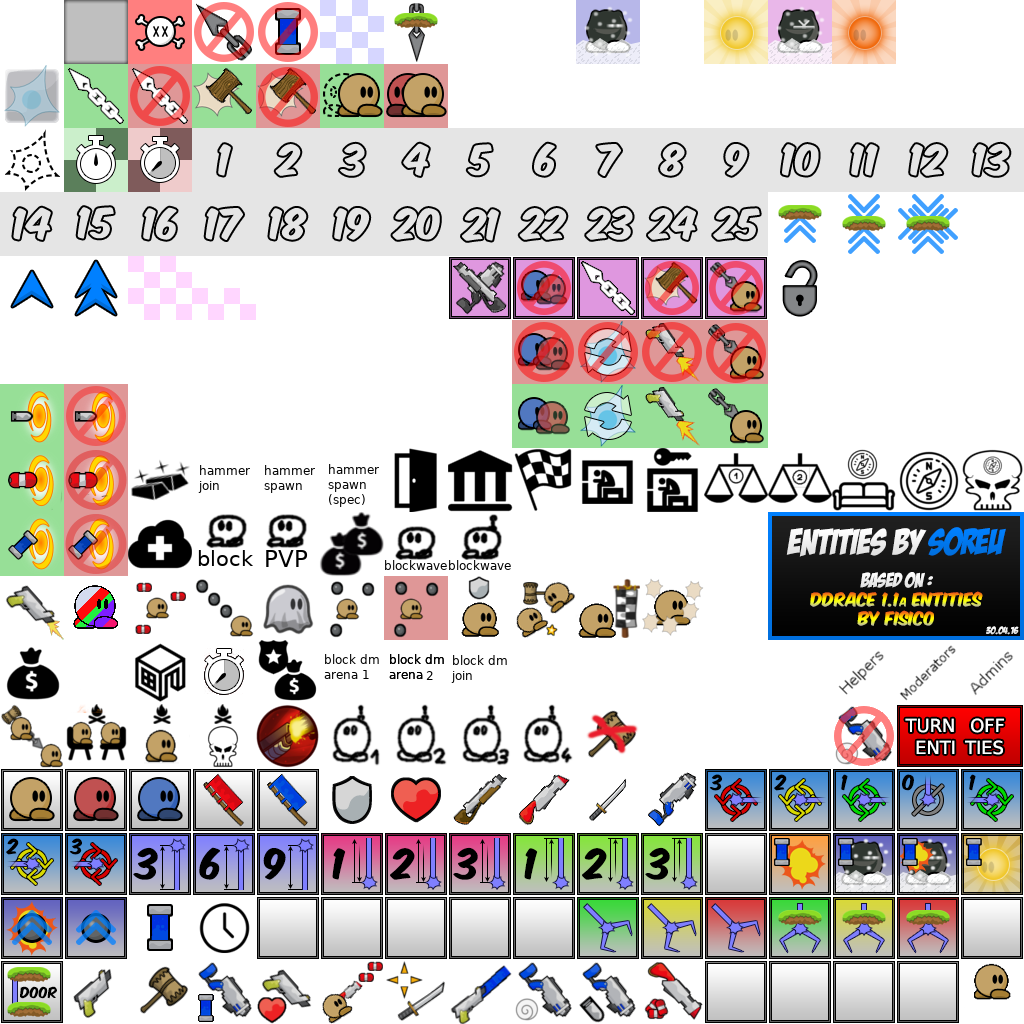
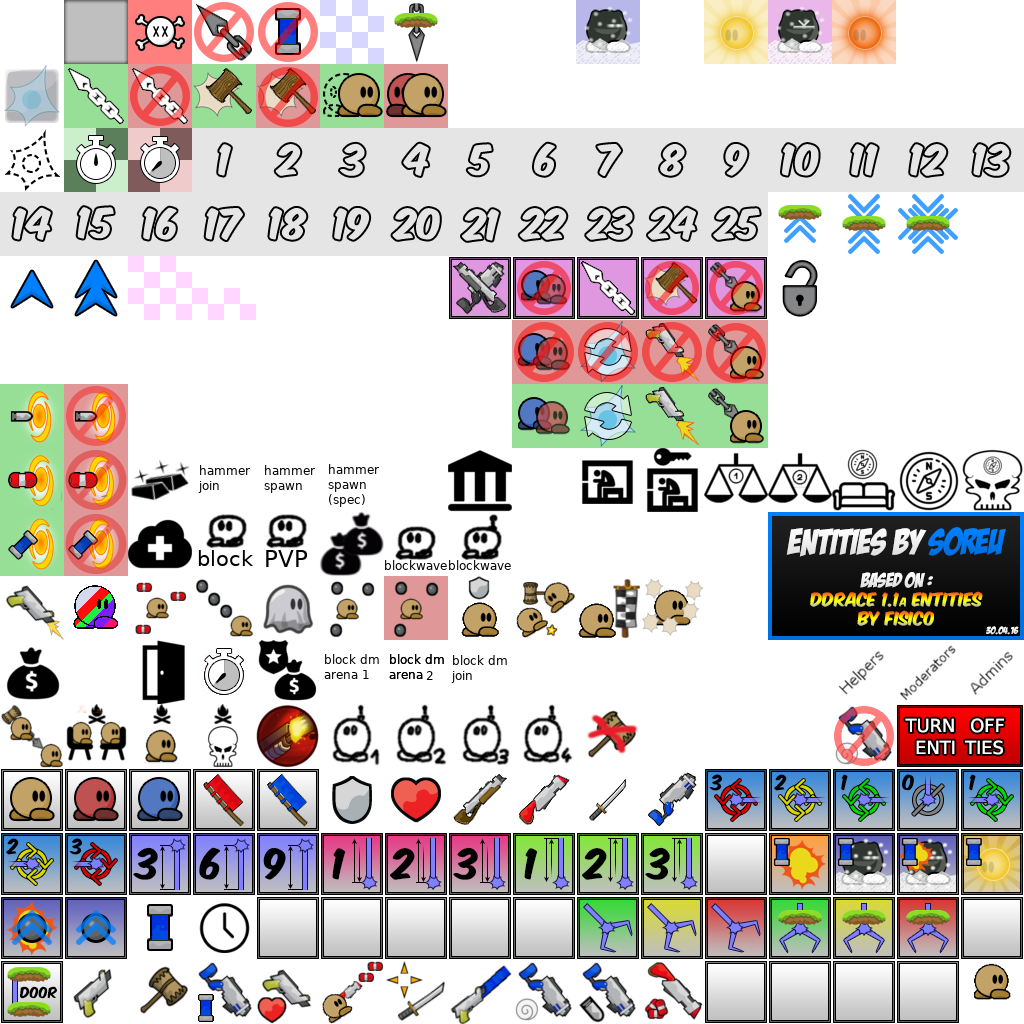
Use fddrace room and special race end tiles

Changed region(s): [[0.5, 0.4375, 0.5625, 0.5], [0.375, 0.4375, 0.4375, 0.5], [0.125, 0.625, 0.1875, 0.6875]]

diff --git a/src/game/server/entities/character.cpp b/src/game/server/entities/character.cpp
@@ -3630,7 +3630,7 @@ void CCharacter::HandleTiles(int Index)
 	}
 
 	//ROOMTILE
-	if (((m_TileIndex == TILE_ROOMPOINT) || (m_TileFIndex == TILE_ROOMPOINT)) && !Allowed) // Admins got it free
+	if (((m_TileIndex == TILE_ROOM) || (m_TileFIndex == TILE_ROOM)) && !Allowed) // Admins got it free
 	{
 		//ChillerDragon upgrade to not cheat the map or stuff and tele too far
 
@@ -4199,7 +4199,7 @@ void CCharacter::DDRaceTick()
 		int index = GameServer()->Collision()->GetPureMapIndex(m_Pos);
 		int tile = GameServer()->Collision()->GetTileIndex(index);
 		int ftile = GameServer()->Collision()->GetFTileIndex(index);
-		if (IsGrounded() && tile != TILE_FREEZE && tile != TILE_DFREEZE && tile != TILE_ROOMPOINT && ftile!= TILE_ROOMPOINT && ftile != TILE_FREEZE && ftile != TILE_DFREEZE) {
+		if (IsGrounded() && tile != TILE_FREEZE && tile != TILE_DFREEZE && tile != TILE_ROOM && ftile!= TILE_ROOM && ftile != TILE_FREEZE && ftile != TILE_DFREEZE) {
 			m_PrevSavePos = m_Pos;
 			m_SetSavePos = true;
 		}

diff --git a/src/game/mapitems.h b/src/game/mapitems.h
@@ -161,9 +161,7 @@ enum
 	TILE_MONEY_PLUS = 114,
 	TILE_MONEY_DOUBLE = 115,
 
-	TILE_ROOMPOINT=118,
 	TILE_BANK_IN=119,
-	TILE_DDPP_END=120,
 	TILE_JAIL=121,
 	TILE_JAILRELEASE=122,
 	TILE_BALANCE_BATTLE_1=123,
@@ -179,6 +177,8 @@ enum
 	TILE_BLOCKWAVE_BOT = 135,
 
 	TILE_MONEY = 160,
+	TILE_ROOM=162,
+	TILE_DDPP_END=163,
 	TILE_MONEY_POLICE = 164,
 
 	// block deathmath spawns
